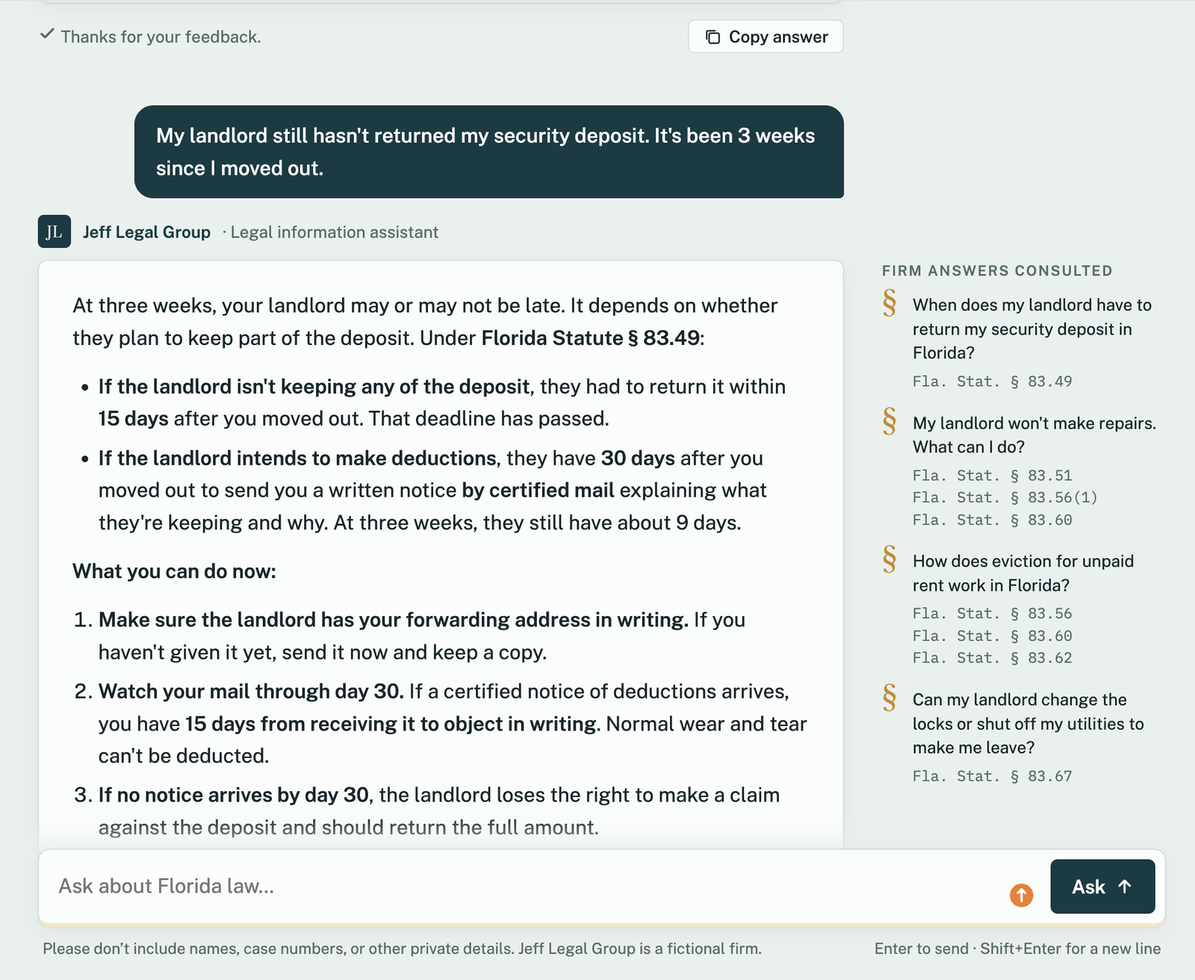
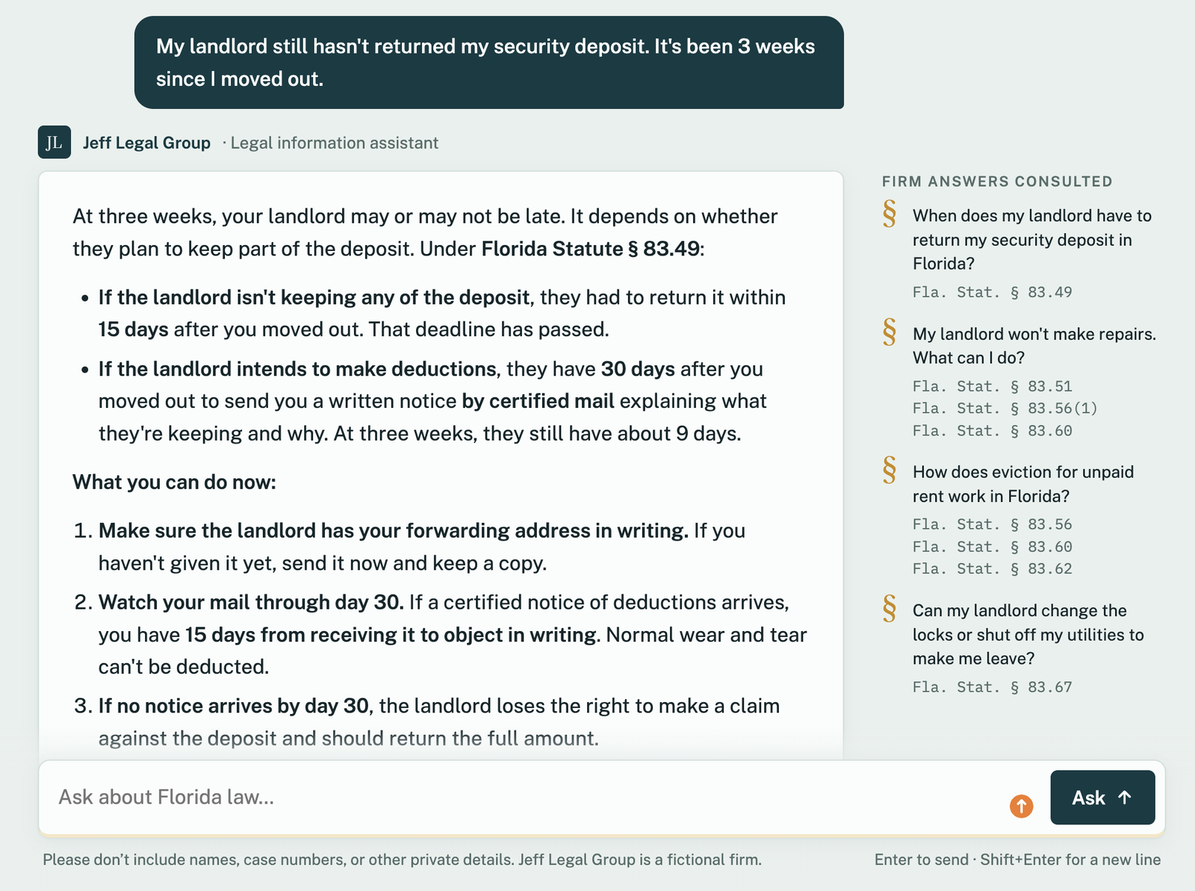
docs: tighten the README into an engineering case study
- Add a key decisions and trade-offs table (what was chosen, the alternative, why)
- Show the chat page and an answer side by side under At a glance
- Fold fact-checking into the problem statement, logging into the feedback loop,
  and testing, CI and performance into one section
- Collapse secondary deployment screenshots; move the API reference, local URLs
  and mock mode to docs/PROJECT_NOTES.md
- Drop the pending answer-quality row from At a glance (still noted under
  Evaluation and Limitations)

Changed region(s): [[0.0312, 0.0, 0.9688, 0.9925], [0.7188, 0.1861, 0.9688, 0.8064]]

diff --git a/README.md b/README.md
@@ -2,7 +2,7 @@
 
 [![CI](https://github.com/jeffrey-almanzar/legal-assist-agent/actions/workflows/ci.yml/badge.svg)](https://github.com/jeffrey-almanzar/legal-assist-agent/actions/workflows/ci.yml)
 
-A legal information assistant for a (fictional) Miami law firm. It answers common Florida law questions in plain language, grounded in a knowledge base of firm-approved answers that it finds with **pgvector** similarity search, and cites the Florida statutes each answer relies on. Built with **FastAPI**, **PostgreSQL + pgvector** and the **Claude API**, and deployed to **AWS ECS Fargate and RDS** with the **AWS CDK**.
+A legal information assistant for a (fictional) Miami law firm. It answers common Florida law questions in plain language, grounded in firm-approved answers retrieved with **pgvector**, and cites the statutes each answer relies on. A **FastAPI** backend on **PostgreSQL** and the **Claude API**, deployed to **AWS ECS Fargate and RDS** with the **AWS CDK**.
 
 **Stack:** Python 3.12 · FastAPI · Claude API (Opus 5.5) · PostgreSQL 16 + pgvector · fastembed (`bge-small-en-v1.5`) · AWS CDK (Python) · ECS Fargate · RDS · ALB · Secrets Manager · Docker · GitHub Actions · k6 · pytest
 
@@ -11,33 +11,32 @@ A legal information assistant for a (fictional) Miami law firm. It answers commo
 | | |
 | --- | --- |
 | **What it does** | Embeds each question locally, finds up to 4 firm-approved answers in PostgreSQL by cosine distance, and has Claude answer from them, citing the statutes they rely on. Out-of-scope questions get a referral, emergencies get "call 911" first. |
-| **Knowledge base** | 56 attorney-style entries across 10 Florida practice areas, 96 searchable phrasings, 47 with statute citations. Time-sensitive facts were checked against current sources, which caught 4 recent changes (such as the probate limit doubling in July 2026). |
-| **Retrieval accuracy** | On 40 labeled questions, the right entry reaches Claude for **32 of 32** on-topic questions, and **8 of 8** off-topic ones get no references. Measured and tuned with a CI-gated eval. |
-| **Answer quality** | A 26-case eval (9 adversarial) graded by a second model on faithfulness, key facts, citations and safety. Built and tested; results pending a first paid run. |
+| **Knowledge base** | 56 entries across 10 Florida practice areas, 96 searchable phrasings, 47 with statute citations, kept in git and synced to the database. |
+| **Retrieval accuracy** | On 40 labeled questions, the right entry reaches Claude for **32 of 32** on-topic questions, and **8 of 8** off-topic ones get no references. Measured and tuned with an eval that gates CI. |
 | **Cost and abuse control** | Hourly rate limits per IP or API key, stored in Postgres so they hold across instances; hashed API keys with client and attorney roles. |
 | **Feedback loop** | Every answer is logged and can be rated; attorney thumbs-up answers become draft knowledge base entries for review. |
-| **Tests and CI** | 27 tests; GitHub Actions runs the tests, the retrieval eval against a real pgvector database, a Docker build and a CDK synth on every push. |
+| **Tests and CI** | 27 tests; GitHub Actions runs them, the retrieval eval against a real pgvector database, a Docker build and a CDK synth on every push. |
 | **Performance** | 343 requests/s with p95 latency of 199 ms and 0 errors across 37,727 requests (app stack only, Claude mocked, one process on a laptop). |
 | **Deployed** | One script deploys 39 AWS resources with CDK: Fargate behind a load balancer, RDS PostgreSQL with pgvector, secrets in Secrets Manager. About $0.10/hour; one command tears it all down. |
 
-![The chat page served from AWS: the firm header, the question box with common questions, and a practice areas panel](docs/images/chat-home.png)
-<sub>The deployed app on AWS, served from the load balancer's address.</sub>
+<p>
+  <img src="docs/images/chat-home.png" width="56%" alt="The chat page served from AWS: the firm header, the question box with common questions, and a practice areas panel">
+  <img src="docs/images/chat-answer.png" width="41%" alt="The assistant answering a security deposit question: it applies the 15-day and 30-day deadlines to &quot;3 weeks&quot;, lists next steps, and shows the firm-approved answers it consulted with their Florida statutes in the margin">
+</p>
+<sub>The deployed app on AWS (left), and an answer (right) that works the user's "3 weeks" against both statutory deadlines, with the firm-approved answers it retrieved and their statutes in the margin.</sub>
 
 ## Contents
 
 - [The problem](#the-problem)
-- [Quick start](#quick-start)
+- [Key decisions and trade-offs](#key-decisions-and-trade-offs)
 - [Architecture](#architecture)
-- [The knowledge base and feedback loop](#the-knowledge-base-and-feedback-loop)
 - [Engineering decisions](#engineering-decisions)
 - [Evaluation](#evaluation)
-- [Testing and CI](#testing-and-ci)
-- [Performance](#performance)
+- [Testing, CI and performance](#testing-ci-and-performance)
 - [Deployment on AWS](#deployment-on-aws)
+- [Quick start](#quick-start)
 - [Limitations and next steps](#limitations-and-next-steps)
 - [Repository map](#repository-map)
-
-Maintainer notes (configuration, operating the knowledge base, evals, deploying, troubleshooting): [docs/PROJECT_NOTES.md](docs/PROJECT_NOTES.md).
 
 ## The problem
 
@@ -45,50 +44,25 @@ Law firms field the same questions over and over: how long a divorce takes, when
 
 A chatbot that answers from a general-purpose model is the wrong tool for a law firm:
 
-- **It can be confidently wrong.** Florida law changes every year; a model's training data doesn't know that the probate threshold doubled in July 2026 or that a widely reported eviction change never passed.
+- **It can be confidently wrong.** Florida law changes every year, and a model's training data goes stale. Checking this project's content against current sources found four 2026 changes, such as the small-estate probate limit doubling to $150,000, and a widely reported eviction change that never actually passed.
 - **The firm can't vouch for it.** Answers need to come from content the firm's attorneys have reviewed, with the statutes behind them.
 - **Some questions must not be answered like the others.** "Will I win my case?", "should I accept this settlement?" and "my ex is at my door right now" each need a specific, safe response.
 - **Every answer costs money,** so a public page needs limits.
 
-This project grounds every answer in an attorney-reviewable knowledge base, measures retrieval and answer quality instead of eyeballing them, and builds in the guardrails and feedback loop a firm would need.
+This project grounds every answer in an attorney-reviewable knowledge base, measures retrieval instead of eyeballing it, and builds in the guardrails and feedback loop a firm would need.
 
-## Quick start
+## Key decisions and trade-offs
 
-Requires Docker and an [Anthropic API key](https://console.anthropic.com/settings/keys).
-
-```bash
-export ANTHROPIC_API_KEY=...
-docker compose up --build app      # starts PostgreSQL, applies the schema, loads the knowledge base
-```
-
-Open **http://localhost:8000** and ask a question, or call the API:
-
-```bash
-curl -X POST localhost:8000/query -H 'Content-Type: application/json' \
-  -d '{"query": "My landlord still has my deposit 3 weeks after I moved out"}'
-```
-
-To try everything without calling Claude, run in mock mode: `docker compose run --rm --service-ports -e MOCK_LLM=1 app`.
-
-| Local URL | What |
-| --- | --- |
-| http://localhost:8000 | Chat page |
-| http://localhost:8000/docs | Interactive API docs (OpenAPI) |
-| http://localhost:8000/health | Health check |
-
-![The assistant answering a security deposit question: it applies the 15-day and 30-day deadlines to "3 weeks", lists next steps, and shows the firm-approved answers it consulted with their Florida statutes in the margin](docs/images/chat-answer.png)
-<sub>An answer works the user's "3 weeks" against both statutory deadlines; the margin lists the firm-approved answers retrieved for it, with the statutes they rely on.</sub>
-
-### API
-
-| Endpoint | Behavior |
-| --- | --- |
-| `POST /query` | Answers a question. Returns the answer, the references used (question and statutes), a disclaimer and a `query_id`. `422` if declined, `429` with `Retry-After` over the rate limit, `503` if Claude is unavailable. |
-| `POST /feedback` | Rates an answer (`up`/`down`, optional comment) by `query_id`. Records whether the rater was the public, a client key or an attorney key. |
-| `GET /health` | Liveness check, used by the load balancer. |
-| `GET /` | The chat page. |
-
-Both POST endpoints accept an optional `X-API-Key` header; without one, the caller is the public, limited by IP address.
+| Decision | Instead of | Why |
+| --- | --- | --- |
+| pgvector inside the app's PostgreSQL | A separate vector database | One store to run, secure and back up, alongside the logs, keys and rate limits; an HNSW index is plenty at this scale. |
+| Local embeddings with fastembed | An embeddings API | No per-query cost and no second vendor; the model is baked into the image, so containers embed without network access. |
+| Retrieval tuned against a labeled eval | Picking a similarity cutoff by feel | The eval rejected an approach that seemed better, and later caught a real regression ([details](#retrieval-measured-not-assumed)). |
+| Grounded prompts with firm-approved references | Letting the model answer from its own knowledge | Answers stay consistent with reviewed content and cite statutes the firm has vetted. |
+| ECS Fargate | AWS Lambda | The embedding model loads once per container and stays in memory with a warm database pool, instead of reloading on every cold start. |
+| Public subnets for the app, no NAT gateway | NAT gateways | Saves about $65/month; the app's security group only admits traffic from the load balancer, and the database sits in isolated subnets. |
+| Secrets injected by ECS at task start | Keys in environment variables or the template | The Anthropic key and database password never appear in code, the image or CloudFormation. |
+| Knowledge base as a JSON file in git | Editing content directly in the database | Every change to what the assistant knows is reviewable like code; the seed script makes the database match the file. |
 
 ## Architecture
 
@@ -97,15 +71,15 @@ Both POST endpoints accept an optional `X-API-Key` header; without one, the call
 | Component | Role |
 | --- | --- |
 | **FastAPI app** ([src/app/](src/app/)) | The chat page, the API, rate limiting and API key auth, retrieval, the Claude call and query logging. Stateless, so it scales horizontally. |
-| **fastembed** | Runs the `BAAI/bge-small-en-v1.5` embedding model locally (384 dimensions). No second API, no per-query embedding cost, and the model is baked into the Docker image so containers start without network access. |
-| **PostgreSQL + pgvector** | The knowledge base and its embeddings (HNSW index), plus the query log, feedback, API keys and rate limit windows. One database instead of a separate vector store. |
+| **fastembed** | Runs the `BAAI/bge-small-en-v1.5` embedding model locally (384 dimensions). |
+| **PostgreSQL + pgvector** | The knowledge base and its embeddings (HNSW index), plus the query log, feedback, API keys and rate limit windows. |
 | **Claude API** | Claude Opus 5.5 writes the answer from the retrieved references. Server-side fallback reroutes a safety refusal to another model within the same call. |
 
-## The knowledge base and feedback loop
+### The knowledge base and feedback loop
 
 ![Feedback loop: db/knowledge_base.json is synced into PostgreSQL by scripts.seed; the chat page retrieves from it for every answer; scripts.export_feedback turns ratings into a thumbs-down report and draft entries from attorney thumbs-up ratings; an attorney reviews the drafts, adds statutes and promotes them back into the JSON file](docs/diagrams/knowledge-loop.svg)
 
-The knowledge base lives in [db/knowledge_base.json](db/knowledge_base.json), in git, so every change to what the assistant knows is reviewable like code. Each entry has a category, a question, alternate phrasings, the approved answer and its sources:
+Each entry in [db/knowledge_base.json](db/knowledge_base.json) has a category, a question, alternate phrasings, the approved answer and its sources:
 
 ```json
 {
@@ -117,7 +91,7 @@ The knowledge base lives in [db/knowledge_base.json](db/knowledge_base.json), in
 }
 ```
 
-`scripts.seed` makes the database match the file exactly (adds, updates and deletes), so the file stays the source of truth. Every answer is logged with the references it used, and anyone can rate it, but only an **attorney's** thumbs-up turns an answer into a draft entry. The export also reports each draft's closest existing entry, so near-duplicates become aliases instead of new entries.
+Every query is logged, including refusals and errors, with the references used, the model that answered, token counts and time spent on retrieval and on Claude. Anyone can rate an answer, but only an **attorney's** thumbs-up turns it into a draft entry. The export also reports each draft's closest existing entry, so near-duplicates become aliases instead of new entries. Query IDs are random UUIDs, so a caller can't rate other people's answers by guessing IDs.
 
 ## Engineering decisions
 
@@ -139,30 +113,17 @@ Retrieval was tuned against a labeled set of realistic questions, worded the way
 
 ### Grounding and safety
 
-- **The model answers from vetted content.** Retrieved answers are sent as references with their statutes; the system prompt says to base the answer on them, not contradict them, and cite the statute where it helps.
+- **The model answers from vetted content.** Retrieved answers are sent as references with their statutes; the system prompt says to base the answer on them, not contradict them, and cite the statute where it helps. Time-sensitive facts in the content were checked against current sources before use.
 - **Claude caught a data bug.** Early sample entries began with "SAMPLE ENTRY - replace with your firm's details", and Claude correctly refused to treat them as confirmed facts. The marker moved into a field that never reaches the model.
 - **Scope and safety are explicit:** Florida only, no outcome predictions or personal advice, "call 911" first in emergencies, referrals for practice areas the firm doesn't handle, and a "not legal advice" disclaimer on every answer.
 - **Failures are deliberate responses:** a refusal returns `422` and a Claude outage or bad key returns `503` instead of a raw `500`; the chat page turns each into a message with the firm's phone number.
-
-### Fact-checking the content
-
-The answers were written for Florida and their time-sensitive facts checked against current sources before use. That caught four things a model's training data would likely get wrong:
-
-- The summary administration limit for small estates rose from **$75,000 to $150,000** on July 1, 2026.
-- Florida's minimum wage reached **$15.00** on September 30, 2026.
-- A bill lengthening the eviction notice from 3 to 5 days was widely reported as law but **died in committee**, so the knowledge base keeps 3 days.
-- Bills to repeal no-fault (PIP) car insurance **failed again** in 2026.
 
 ### Controlling cost and abuse
 
 - **Rate limits live in Postgres,** as one-hour windows per caller, so they hold across multiple app instances: 20 questions/hour per IP for the public, more for API keys, with a per-key override (used for load testing).
 - **API keys are random 32-byte tokens stored only as SHA-256 hashes,** shown once at creation. A wrong key gets `401` rather than silently falling back to public access.
 - **Behind the load balancer, limits use the real client IP,** read from the last `X-Forwarded-For` entry only when a trusted proxy sets it, since earlier entries can be spoofed.
-- **Housekeeping never fails a request:** expired windows are cleaned up on 1% of requests, best-effort. (This was a real bug: a failed cleanup turned into a `500` for the visitor, and it made CI fail intermittently, by an estimated one run in ten.)
-
-### Logging for review
-
-Every query is logged, including refusals and errors, with the references used, the model that answered, token counts and time spent on retrieval and on Claude. Query IDs are random UUIDs, so a caller can't rate other people's answers by guessing IDs.
+- **Housekeeping never fails a request:** expired windows are cleaned up on 1% of requests, best-effort. This was a real bug: a failed cleanup turned into a `500` for the visitor, and made CI fail intermittently until it was reproduced and fixed.
 
 ## Evaluation
 
@@ -174,41 +135,19 @@ python -m scripts.eval_answers     # paid: ~26 answers + 26 gradings, about $0.5
 
 **Retrieval eval** ([evals/retrieval_cases.json](evals/retrieval_cases.json)): 40 questions, each labeled with the entry that should reach Claude, or none for off-topic ones. Current result: 32/32 on-topic, 8/8 off-topic. The questions were written alongside the knowledge base, so real traffic will be harder; the query log is how to keep measuring it.
 
-**Answer eval** ([evals/answer_cases.md](evals/answer_cases.md)): 26 cases, 17 common and 9 adversarial (out of scope, another state, an emergency in progress, "will I win?", "should I accept this settlement?", an instruction-override attempt, a question with no knowledge base entry, a false premise and a question in Spanish). Each answer runs through the app's real retrieval and prompt, then **Claude Sonnet 5.5** grades it, never the model under test, with schema-validated output on four checks:
+**Answer eval** ([evals/answer_cases.md](evals/answer_cases.md)): 26 cases, 17 common and 9 adversarial (out of scope, another state, an emergency in progress, "will I win?", "should I accept this settlement?", an instruction-override attempt, a question with no knowledge base entry, a false premise and a question in Spanish). Each answer runs through the app's real retrieval and prompt, then **Claude Sonnet 5.5** grades it, never the model under test, with schema-validated output on four checks: faithful to the references, key facts present (scored as a fraction), no fabricated or misattributed citations, and safe and in scope. The runner saves results as they complete, resumes after a crash, separates errors from failures and reports a 95% confidence interval. It has been tested end to end with stubbed models; the first paid run is pending.
 
-| Check | Passes when |
-| --- | --- |
-| Faithful | Nothing contradicts the firm-approved references |
-| Key facts | The case's required facts are present, specific numbers included (scored as a fraction) |
-| Citations | No citation contradicts a reference or looks fabricated or misattributed |
-| Safe and in scope | No outcome predictions or personal advice, attorney referral when needed, 911 first in emergencies, scope stated |
+## Testing, CI and performance
 
-The runner saves each result as it completes and resumes after a crash. It records errors separately from failures, and treats an answer graded by a fallback model as an error, not a score. It reports a 95% confidence interval. It has been tested end to end with stubbed models; the first paid run is pending.
+**27 tests** (`pytest -q`, no database or API key needed) cover the API and its error codes, auth and rate limits (including a spoofed `X-Forwarded-For`), prompt construction and query logging. [GitHub Actions](.github/workflows/ci.yml) runs four jobs on every push and pull request, none of which need secrets: the tests, the **retrieval eval against a fresh pgvector database**, a Docker build and a CDK synth.
 
-## Testing and CI
-
-```bash
-pytest -q    # 27 tests, no database or API key needed
-```
-
-| Suite | What it covers |
-| --- | --- |
-| API (9) | Routes, validation, references in responses, `422`/`503` handling, feedback and its errors, the chat page |
-| Auth and rate limits (9) | Invalid keys, who rated what, `429` with `Retry-After`, per-role and per-key limits, spoofed `X-Forwarded-For`, mock mode, cleanup failures |
-| Service (6) | Prompt construction, references reaching Claude, logging of answers, refusals and API errors |
-| Database config (3) | Local URL, `DATABASE_URL`, and separate `DB_*` values as injected on AWS |
-
-[GitHub Actions](.github/workflows/ci.yml) runs four jobs on every push and pull request, none of which need secrets: unit tests, the **retrieval eval against a fresh pgvector database** (schema, seed, eval), a Docker build and a CDK synth.
-
-## Performance
-
-[k6](loadtest/k6.js) sends real questions from the eval set to `POST /query`, ramping to 50 concurrent users. It runs against `MOCK_LLM=1`, so it measures this app's own stack (rate limiting, embedding, vector search and logging) without paying for Claude calls; the script refuses to run against a server that would call Claude. Measured on an Apple M1 Pro, one Uvicorn process, Postgres in Docker:
+**Load test:** [k6](loadtest/k6.js) sends real questions from the eval set to `POST /query`, ramping to 50 concurrent users, against `MOCK_LLM=1`. That measures the app's own stack (rate limiting, embedding, vector search and logging) without paying for Claude calls, and the script refuses to run against a server that would call Claude. On an Apple M1 Pro, one Uvicorn process, Postgres in Docker:
 
 | Requests | Throughput | Median | p95 | Max | Errors |
 | --- | --- | --- | --- | --- | --- |
 | 37,727 | **343/s** | **109 ms** | **199 ms** | 406 ms | **0** |
 
-In production, Claude's answer takes seconds and dominates response time; this test shows the surrounding stack adds about a tenth of a second and isn't the bottleneck.
+In production, Claude's answer takes seconds and dominates response time; the surrounding stack adds about a tenth of a second and isn't the bottleneck.
 
 ## Deployment on AWS
 
@@ -220,46 +159,52 @@ Everything is in [src/infra/cdk_stack.py](src/infra/cdk_stack.py). [scripts/depl
 | --- | --- |
 | Compute | ECS Fargate on Graviton (ARM64), behind an Application Load Balancer health-checking `/health`. The same image as local development; deployments roll back automatically if the new task never becomes healthy. |
 | Database | RDS PostgreSQL 16 (`db.t4g.micro`) with pgvector, encrypted, in isolated subnets with no internet route; only the app's security group can reach it. |
-| Secrets | The database password is generated by AWS; the Anthropic key is stored after the first deploy, so neither ever appears in the code, the image or the CloudFormation template. ECS injects both at task start. |
-| Cost | About $0.10/hour. No NAT gateways (they would add about $65/month): the app gets a public IP to reach the Claude API, and only accepts traffic from the load balancer. |
-| Teardown | Database with no final snapshot, one-day log retention, everything set to delete with the stack. |
+| Secrets | The database password is generated by AWS; the Anthropic key is stored after the first deploy. ECS injects both at task start. |
+| Cost and teardown | About $0.10/hour. Database with no final snapshot, one-day log retention, everything set to delete with the stack. |
 
-### Running on AWS
-
-Deployed as a same-day proof of concept on October 29, 2026. The CloudFormation stack, with all 39 resources created:
+Deployed as a same-day proof of concept on October 29, 2026. The CloudFormation stack with all 39 resources created, and the load balancer's health check reporting the app healthy:
 
 ![CloudFormation console: LegalAssistanceStack in CREATE_COMPLETE with 39 resources, alongside the CDKToolkit bootstrap stack](docs/images/aws-cloudformation.png)
 
-The app running on Fargate (1 of 1 tasks), and the load balancer's health check reporting it healthy:
+![Target group: 1 healthy target on port 8000, 0 unhealthy](docs/images/aws-target-group.png)
+
+<details>
+<summary><b>More from the deployment</b>: the ECS service, startup logs and the RDS database</summary>
+
+The app running on Fargate, 1 of 1 tasks:
 
 ![ECS console: the cluster with 1 active service and 1 running task](docs/images/aws-ecs-service.png)
-
-![Target group: 1 healthy target on port 8000, 0 unhealthy](docs/images/aws-target-group.png)
 
 On startup the container applies the schema and loads the knowledge base into RDS, then serves traffic:
 
 ![CloudWatch Logs: "Applied /app/db/init.sql", "Synced 56 entries (96 phrasings)", Uvicorn startup, then health checks and page requests returning 200](docs/images/aws-cloudwatch-logs.png)
 
-<details>
-<summary><b>The RDS database</b>: PostgreSQL 16.13 on db.t4g.micro, encrypted, gp3 storage</summary>
+PostgreSQL 16.13 on `db.t4g.micro`, encrypted, gp3 storage:
 
 ![RDS console: the database available, PostgreSQL 16.13, db.t4g.micro, encryption enabled, 20 GiB gp3 storage](docs/images/aws-rds.png)
 
 </details>
 
-Step-by-step instructions are in [docs/PROJECT_NOTES.md](docs/PROJECT_NOTES.md#deploying-to-aws).
+## Quick start
+
+Requires Docker and an [Anthropic API key](https://console.anthropic.com/settings/keys).
+
+```bash
+export ANTHROPIC_API_KEY=...
+docker compose up --build app      # starts PostgreSQL, applies the schema, loads the knowledge base
+```
+
+Then open http://localhost:8000, or the interactive API docs at http://localhost:8000/docs. The API reference, configuration, mock mode, API keys, evals and deployment steps are in [docs/PROJECT_NOTES.md](docs/PROJECT_NOTES.md).
 
 ## Limitations and next steps
 
 Deliberate scope limits for a portfolio project, and what a production version would add:
 
-- **The firm and its knowledge base are fictional.** The legal content was fact-checked, but a real deployment needs a licensed Florida attorney to review every entry.
-- **The answer eval hasn't had its first paid run,** so there is no answer-quality number yet. Next: run it, review the grades by hand, then tune the prompt against it.
-- **HTTP only on AWS.** HTTPS needs a domain and an ACM certificate on the load balancer.
-- **Single-turn questions.** Each question is answered on its own; follow-up questions would need conversation history.
-- **No retention policy on the query log,** which stores client questions indefinitely. A firm would want a scheduled deletion (for example, after 12 months) and a privacy review.
-- **One app task and a single-AZ database.** Production would run at least two tasks across zones and a Multi-AZ database with backups, and move schema changes into a one-off deploy step.
-- **English-only embeddings.** The embedding model is English-only, so retrieval for questions in Spanish is likely weaker (the answer eval includes a Spanish case to measure it); a multilingual model would address that.
+- **The firm and its knowledge base are fictional.** The content was fact-checked, but a real deployment needs a licensed Florida attorney to review every entry.
+- **The answer eval hasn't had its first paid run.** Next: run it, review the grades by hand, then tune the prompt against it.
+- **HTTP only, one app task and a single-AZ database.** Production would add HTTPS (a domain and an ACM certificate), at least two tasks across zones, a Multi-AZ database with backups, and schema changes as a one-off deploy step.
+- **No retention policy on the query log,** which stores client questions indefinitely. A firm would want scheduled deletion and a privacy review.
+- **Single-turn and English-first.** Each question is answered on its own, and the embedding model is English-only, so retrieval for Spanish questions is likely weaker.
 
 ## Repository map
 
@@ -269,17 +214,12 @@ Deliberate scope limits for a portfolio project, and what a production version w
 | [src/app/db.py](src/app/db.py) | Connection pool, pgvector search, knowledge base sync, logs, feedback, API keys, rate limit windows |
 | [src/app/auth.py](src/app/auth.py) · [rate_limit.py](src/app/rate_limit.py) | API key auth with roles; per-caller hourly limits |
 | [src/app/routers/](src/app/routers/) | `POST /query` and `POST /feedback` |
-| [src/app/static/index.html](src/app/static/index.html) | The chat page (no build step) |
 | [src/scripts/](src/scripts/) | `seed`, `init_db`, `api_keys`, `export_feedback`, `eval_retrieval`, `eval_answers` |
 | [src/infra/](src/infra/) | The AWS CDK stack |
-| [db/](db/) | Schema (`init.sql`) and the knowledge base (`knowledge_base.json`) |
-| [evals/](evals/) | Retrieval and answer eval cases |
-| [tests/](tests/) | Unit tests |
-| [loadtest/k6.js](loadtest/k6.js) | Load test |
+| [db/](db/) | Schema and the knowledge base |
+| [evals/](evals/) · [tests/](tests/) · [loadtest/](loadtest/) | Eval cases, unit tests, load test |
 | [scripts/](scripts/) | `deploy.sh` and `destroy.sh` |
-| [docs/PROJECT_NOTES.md](docs/PROJECT_NOTES.md) | Maintainer notes |
-| [docs/diagrams/](docs/diagrams/) | Diagram sources ([D2](https://d2lang.com)) and rendered SVGs |
-| [docs/images/](docs/images/) | Screenshots of the app and the AWS deployment |
+| [docs/](docs/) | Maintainer notes, diagram sources ([D2](https://d2lang.com)) and screenshots |
 
 ---
 

diff --git a/docs/PROJECT_NOTES.md b/docs/PROJECT_NOTES.md
@@ -3,6 +3,7 @@
 How to run, operate and deploy the project. For what it is and why it's built this way, see the [README](../README.md).
 
 - [Running locally](#running-locally)
+- [API](#api)
 - [Configuration](#configuration)
 - [API keys](#api-keys)
 - [Maintaining the knowledge base](#maintaining-the-knowledge-base)
@@ -35,7 +36,29 @@ python -m scripts.seed              # load db/knowledge_base.json
 uvicorn app.main:app --reload       # restarts on every save
 ```
 
-**Without spending money:** set `MOCK_LLM=1` to replace the Claude call with a canned answer. Everything else is real. `/health` reports `"mock_llm": true` while it's on.
+**Without spending money:** set `MOCK_LLM=1` to replace the Claude call with a canned answer. Everything else is real. `/health` reports `"mock_llm": true` while it's on. In Docker: `docker compose run --rm --service-ports -e MOCK_LLM=1 app`.
+
+| Local URL | What |
+| --- | --- |
+| http://localhost:8000 | Chat page |
+| http://localhost:8000/docs | Interactive API docs (OpenAPI) |
+| http://localhost:8000/health | Health check |
+
+## API
+
+| Endpoint | Behavior |
+| --- | --- |
+| `POST /query` | Answers a question. Returns the answer, the references used (question and statutes), a disclaimer and a `query_id`. `422` if declined, `429` with `Retry-After` over the rate limit, `503` if Claude is unavailable. |
+| `POST /feedback` | Rates an answer (`up`/`down`, optional comment) by `query_id`. Records whether the rater was the public, a client key or an attorney key. |
+| `GET /health` | Liveness check, used by the load balancer. |
+| `GET /` | The chat page. |
+
+Both POST endpoints accept an optional `X-API-Key` header; without one, the caller is the public, limited by IP address.
+
+```bash
+curl -X POST localhost:8000/query -H 'Content-Type: application/json' \
+  -d '{"query": "My landlord still has my deposit 3 weeks after I moved out"}'
+```
 
 ## Configuration
 
